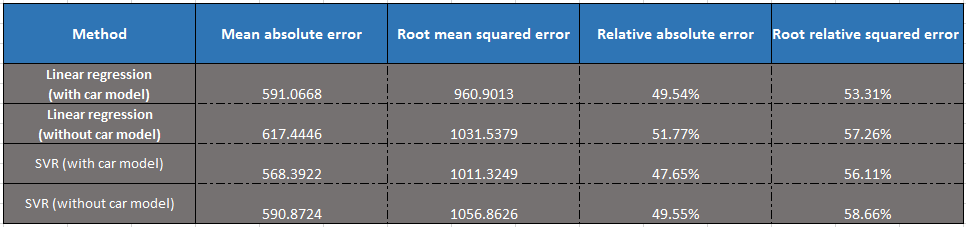
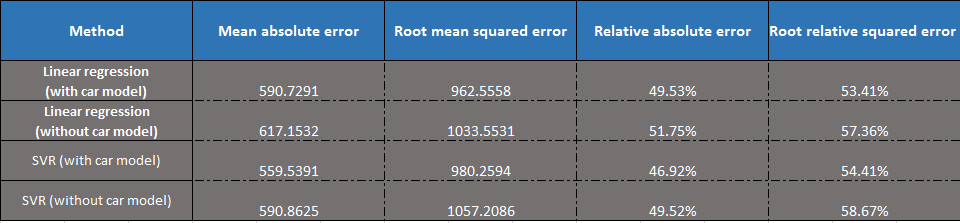
new class for collecting data, standardized classification

diff --git a/src/rs/fon/is/carPricePrediction/dataMining/WekaLinearRegression.java b/src/rs/fon/is/carPricePrediction/dataMining/WekaLinearRegression.java
@@ -25,19 +25,19 @@ public class WekaLinearRegression {
 
         }
 
-        public void classifyWithModel(Instances data) throws Exception{
+        public String classifyWithModel(Instances data) throws Exception{
                 linearRegression.buildClassifier(data);
                 System.out.println(linearRegression.toString());
 
                 Evaluation evaluation = new Evaluation(data);
                 evaluation.crossValidateModel(linearRegression,data,10,new Random());
 
-                System.out.println(evaluation.toSummaryString());
+                return evaluation.toSummaryString();
 
 
         }
 
-        public void classifyWithoutModel(Instances data) throws Exception{
+        public String classifyWithoutModel(Instances data) throws Exception{
                 Remove remove = new Remove();
                 remove.setAttributeIndices("1");
 
@@ -50,12 +50,12 @@ public class WekaLinearRegression {
                 Evaluation evaluation = new Evaluation(data);
                 evaluation.crossValidateModel(this.filteredClassifier,data,10,new Random());
 
-                System.out.println(evaluation.toSummaryString());
+                return evaluation.toSummaryString();
 
         }
 
 
-        public void classifyWithoutModelStandardized(Instances data) throws Exception{
+        public String classifyWithoutModelStandardized(Instances data) throws Exception{
 
                 Standardize standardize = buildStandardizeFilter(data);
                 Remove remove = new Remove();
@@ -69,11 +69,15 @@ public class WekaLinearRegression {
                 this.filteredClassifier.setClassifier(linearRegression);
                 this.filteredClassifier.setFilter(mf);
                 this.filteredClassifier.buildClassifier(data);
-                System.out.println(filteredClassifier.toString());
 
+               // return filteredClassifier.toString();
+                Evaluation evaluation = new Evaluation(data);
+                evaluation.crossValidateModel(this.filteredClassifier,data,10,new Random());
+
+                return evaluation.toSummaryString();
         }
 
-        public void classifyWithModelStandardizatied(Instances data) throws Exception {
+        public String classifyWithModelStandardizatied(Instances data) throws Exception {
                 Standardize standardize = buildStandardizeFilter(data);
 
                 this.filteredClassifier = new FilteredClassifier();
@@ -81,8 +85,11 @@ public class WekaLinearRegression {
                 this.filteredClassifier.setFilter(standardize);
                 this.filteredClassifier.buildClassifier(data);
 
-                System.out.println(filteredClassifier.toString());
+                //return filteredClassifier.toString();
+                Evaluation evaluation = new Evaluation(data);
+                evaluation.crossValidateModel(this.filteredClassifier,data,10,new Random());
 
+                return evaluation.toSummaryString();
 
         }
 

diff --git a/src/rs/fon/is/carPricePrediction/main/Main.java b/src/rs/fon/is/carPricePrediction/main/Main.java
@@ -16,47 +16,30 @@ public class Main {
     private static String bmw = "http://www.polovniautomobili.com/putnicka-vozila/pretraga?page=1&sort=renewDate_desc&brand=37&city_distance=0&showOldNew=all&without_price=1";
     private static String renault = "http://www.polovniautomobili.com/putnicka-vozila/pretraga?page=2&sort=renewDate_desc&brand=192&city_distance=0&showOldNew=all&without_price=1";
 
+
     public static void main (String[] args) throws Exception {
 
-//        Stari kod, pisem novi
-//        HTMLParser htmlParser = new HTMLParser(renault);
-//        int numOfPages = htmlParser.calculateNumberOfPages();
-//
-//        htmlParser.generateData(numOfPages);
-//
-//        System.out.println("Scraping finished");
-//
-//        DataSorter ds = new DataSorter();
-//        String[][] matrix = ds.loadDataFromFile("data/unsortedData.csv");
-//        String[][] rotatedMatrix = ds.rotateMatrix(matrix);
-//
-//        ds.writeInFile(rotatedMatrix);
-//
-//        System.out.println("DataSet completed");
+//        this line of code collects data for regression
+//        DataScraper.generateDataSet(renault);
 
-//        upisujem ceo output direktno u file results.txt
         PrintStream out = new PrintStream(new FileOutputStream("data/results.txt"));
-        System.setOut(out);
 
         Instances data = DataLoader.loadTrainingData("data/dataSet_renault.arff");
+
         WekaLinearRegression lr = new WekaLinearRegression();
-      //  WekaModelTree m5p = new WekaModelTree();
         WekaSMOreg smoReg = new WekaSMOreg();
 
-        System.out.println("\n Linear Regression with car model \n");
-        lr.classifyWithModel(data);
-        System.out.println("\n Linear Regression without car model \n");
-        lr.classifyWithoutModel(data);
+        out.print("\n Linear Regression with car model \n");
+        out.print(lr.classifyWithModelStandardizatied(data));
+        out.print("\n Linear Regression without car model \n");
+        out.print(lr.classifyWithoutModelStandardized(data));
 
-        System.out.println("\n SMO with car model \n");
-        smoReg.classifyWithModel(data);
-        System.out.println("\n SMO without car model \n");
-        smoReg.classifyWithoutModel(data);
+        out.print("\n SMO Regression with car model \n");
+        out.print(smoReg.classifyWithModel(data));
+        out.print("\n SMO Regression without car model \n");
+        out.print(smoReg.classifyWithoutModel(data));
 
-//        System.out.println("\n Model tree with car model \n");
-//        m5p.classifyWithModel(data);
-//        System.out.println("\n Model tree without car model \n");
-//       m5p.classifyWithoutModel(data);
+
 
 
 

diff --git a/src/rs/fon/is/carPricePrediction/dataMining/WekaSMOreg.java b/src/rs/fon/is/carPricePrediction/dataMining/WekaSMOreg.java
@@ -21,18 +21,18 @@ public class WekaSMOreg {
 
     }
 
-    public void classifyWithModel(Instances data) throws Exception{
+    public String classifyWithModel(Instances data) throws Exception{
         smOreg.buildClassifier(data);
         System.out.println(smOreg.toString());
 
         Evaluation evaluation = new Evaluation(data);
         evaluation.crossValidateModel(this.smOreg,data,10,new Random());
 
-        System.out.println(evaluation.toSummaryString());
+        return evaluation.toSummaryString();
 
     }
 
-    public void classifyWithoutModel(Instances data) throws Exception{
+    public String classifyWithoutModel(Instances data) throws Exception{
 
         Remove remove = new Remove();
         remove.setAttributeIndices("1");
@@ -46,7 +46,7 @@ public class WekaSMOreg {
         Evaluation evaluation = new Evaluation(data);
         evaluation.crossValidateModel(this.filteredClassifier,data,10,new Random());
 
-        System.out.println(evaluation.toSummaryString());
+        return evaluation.toSummaryString();
 
     }
 

diff --git a/src/rs/fon/is/carPricePrediction/parser/DataScraper.java b/src/rs/fon/is/carPricePrediction/parser/DataScraper.java
@@ -1,0 +1,35 @@
+package rs.fon.is.carPricePrediction.parser;
+
+import java.io.IOException;
+
+/**
+ * Created by Nikola on 7/23/2015.
+ */
+public class DataScraper {
+
+
+
+     public static void generateDataSet(String carLink) throws IOException {
+
+         HTMLParser htmlParser = new HTMLParser(carLink);
+         int numOfPages = htmlParser.calculateNumberOfPages();
+
+         htmlParser.generateData(numOfPages);
+
+         System.out.println("Scraping finished");
+
+         DataSorter ds = new DataSorter();
+         String[][] matrix = ds.loadDataFromFile("data/unsortedData.csv");
+         String[][] rotatedMatrix = ds.rotateMatrix(matrix);
+
+         ds.writeInFile(rotatedMatrix);
+
+         System.out.println("DataSet completed");
+
+
+     }
+
+
+
+}
+
